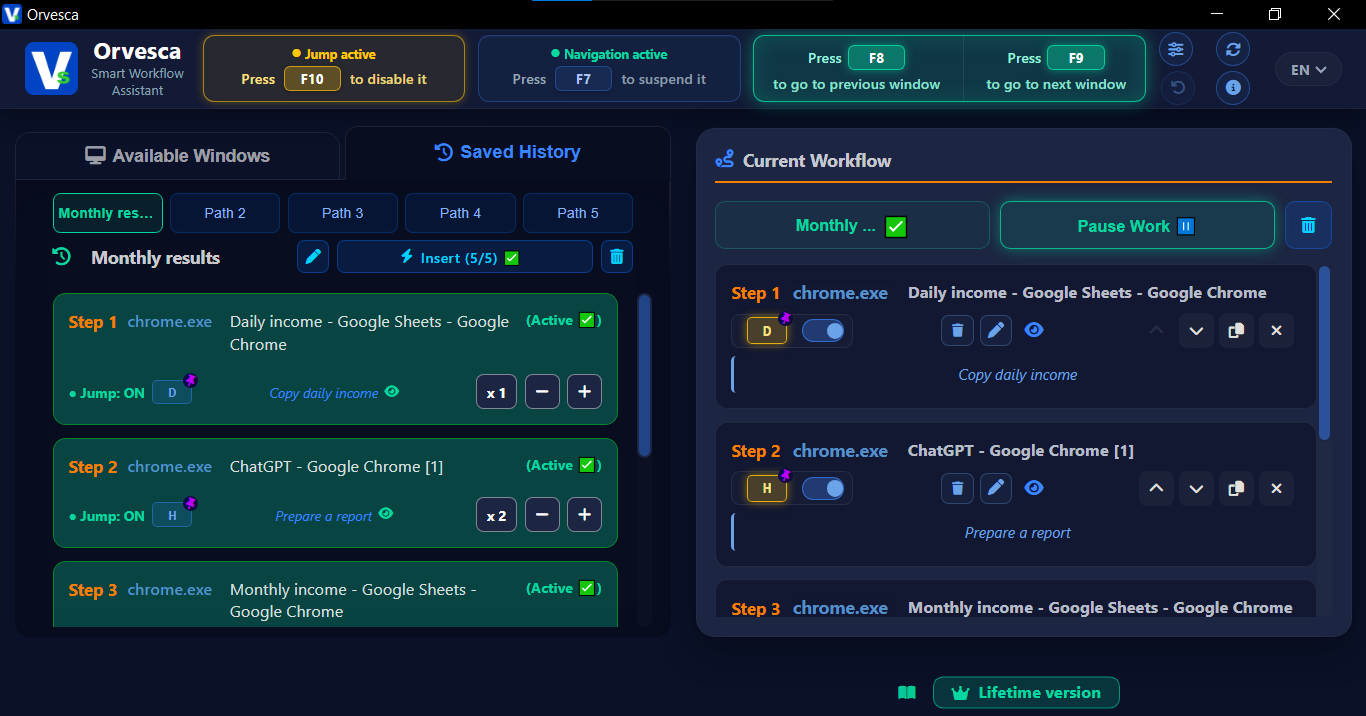
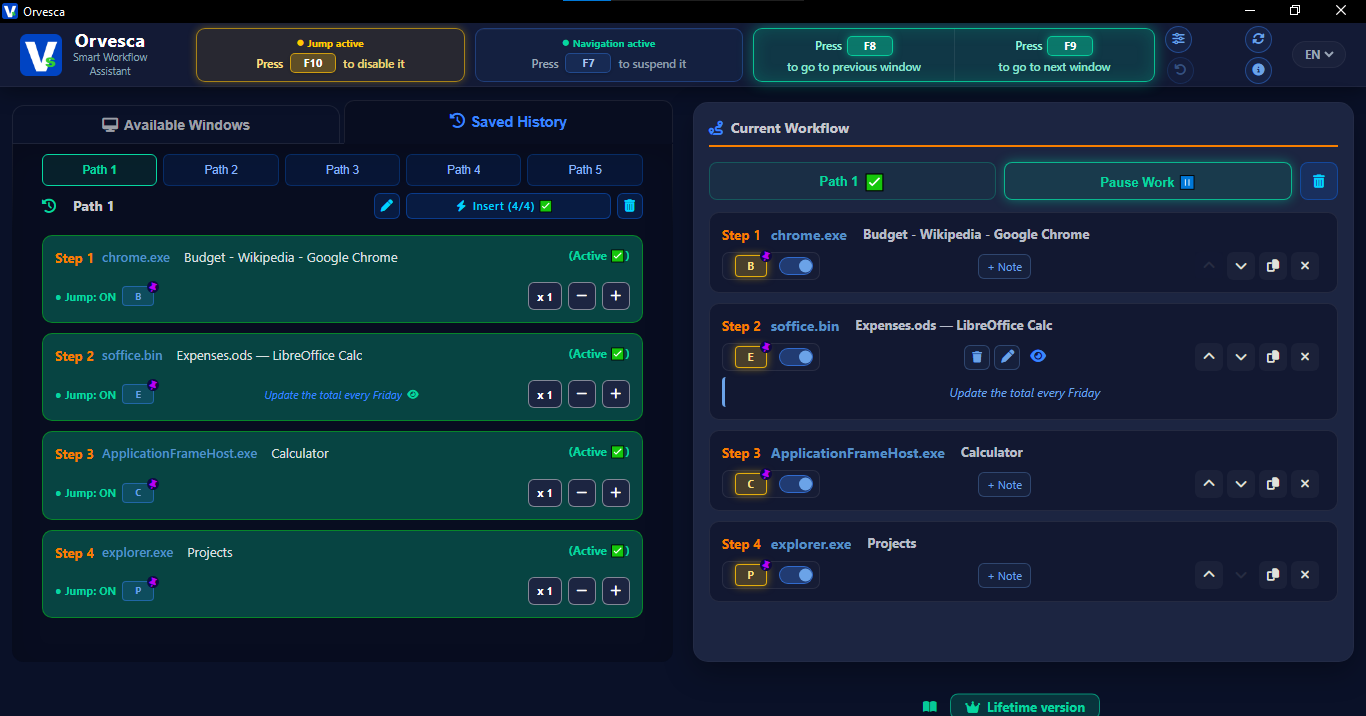
Homepage: new screenshots matching the Store listing
Hero (keys B, E, C, P), saved history and the note on the Expenses
spreadsheet, cropped to the previous image proportions without the
Windows taskbar.

Claude-Session: https://claude.ai/code/session_01Qn7NYGUnyZAycQnesv1TcC

diff --git a/index.html b/index.html
@@ -321,8 +321,8 @@
       </div>
       <div class="hero-vis rv">
         <div class="window">
-          <img src="/workflow.png" alt="Orvesca main window showing available windows and the current workflow" />
-          <div class="float-kc fk-left"><span class="kc sm accent">E</span><span class="lbl">jump to its window</span></div>
+          <img src="/workflow.png" alt="Orvesca main window: four windows in the workflow with jump keys B, E, C and P" />
+          <div class="float-kc fk-left"><span class="kc sm accent">E</span><span class="lbl">jump to Expenses</span></div>
           <div class="float-kc fk-right"><span class="lbl">next ▶</span><span class="kc sm">F9</span></div>
         </div>
       </div>
@@ -431,7 +431,7 @@
           <h3>A note that lives on the window it belongs to.</h3>
           <p>Attach a reminder to any window and it travels with it — visible when you want the nudge, hidden when you don't. Small thing, big relief on a long shift.</p>
         </div>
-        <div class="frame"><img src="/note.png" alt="A note pinned to the ChatGPT window reading Prepare a report" /></div>
+        <div class="frame"><img src="/note.png" alt="A note pinned to the Expenses spreadsheet reading Update the total every Friday" /></div>
       </div>
     </div>
   </section>
